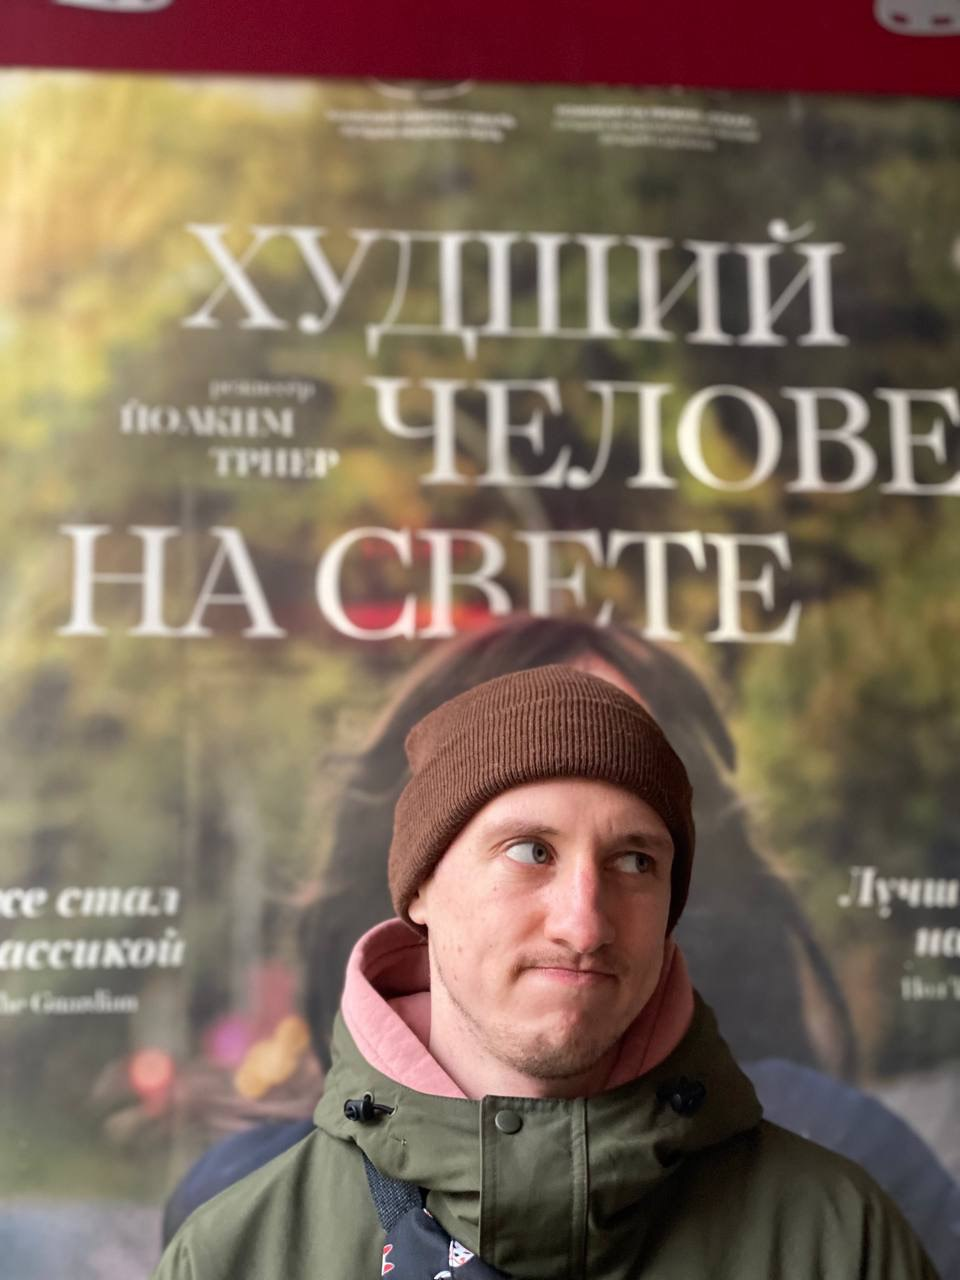
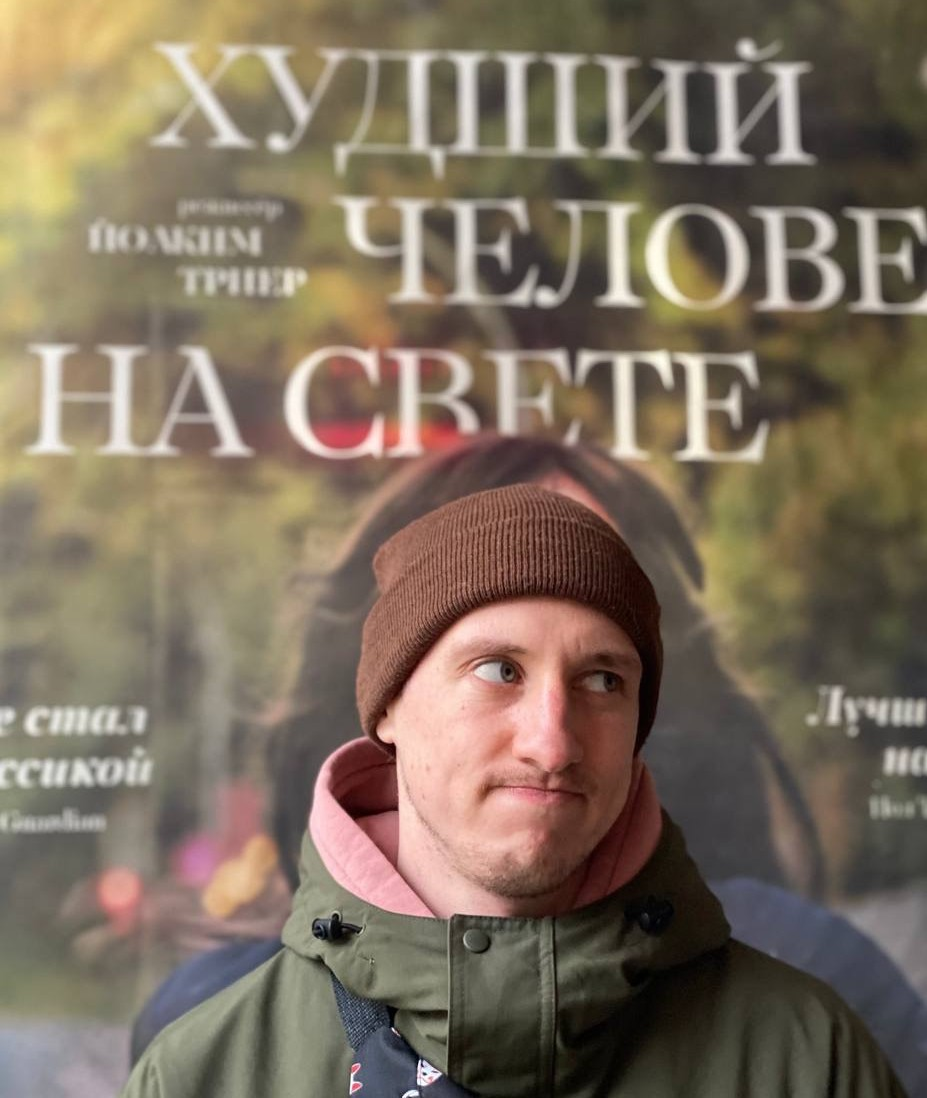
Repair my photo

diff --git a/portfolio/templates/portfolio/home.html b/portfolio/templates/portfolio/home.html
@@ -7,29 +7,26 @@
 
 <!-- Заголовок и фото -->
     <div class="container-fluid">
-        <div class="row">
-            <div class="col"></div>
-            <div class="col">
-                <figure class="text-center">
-                    <h2>Hi there! 🖐🏻<br>This is my personal portfolio.</h2>
-                    <br>
-                </figure>
-                <div class="shadow p-0 mb-5 bg-body rounded">
-                    <img src="{% static 'portfolio/my_petersburg_photo.jpg' %}" class="img-fluid"
-                         alt="Verdens verste menneske">
-                </div>
-                <figure class="text-center">
-                  <blockquote class="blockquote">
-                    <p>Denis Barinov</p>
-                  </blockquote>
-                  <figcaption class="blockquote-footer">
-                    Backend Python Developer
-                  </figcaption>
-                </figure>
+        <figure class="text-center">
+            <h2>Hi there! 🖐🏻<br>This is my personal portfolio.</h2>
+            <br>
+        </figure>
 
+        <div class="d-flex justify-content-center">
+            <div class="shadow p-0 mb-5 bg-body rounded">
+                <img src="{% static 'portfolio/my_petersburg_photo.jpg' %}" class="img-fluid"
+                             alt="Verdens verste menneske">
             </div>
-            <div class="col"></div>
         </div>
+        <figure class="text-center">
+                <blockquote class="blockquote">
+                <p>Denis Barinov</p>
+                </blockquote>
+                <figcaption class="blockquote-footer">
+                    Backend Python Developer
+                </figcaption>
+        </figure>
+    </div>
 
 <!-- Контейнер с проектами -->
         <br>

diff --git a/portfolio/static/portfolio/custom.css b/portfolio/static/portfolio/custom.css
@@ -38,3 +38,7 @@ body {
 .card-body {
     background-color: rgba(236, 236, 236) !important;
 }
+
+.bg-body {
+    max-width: 50% !important;
+}
